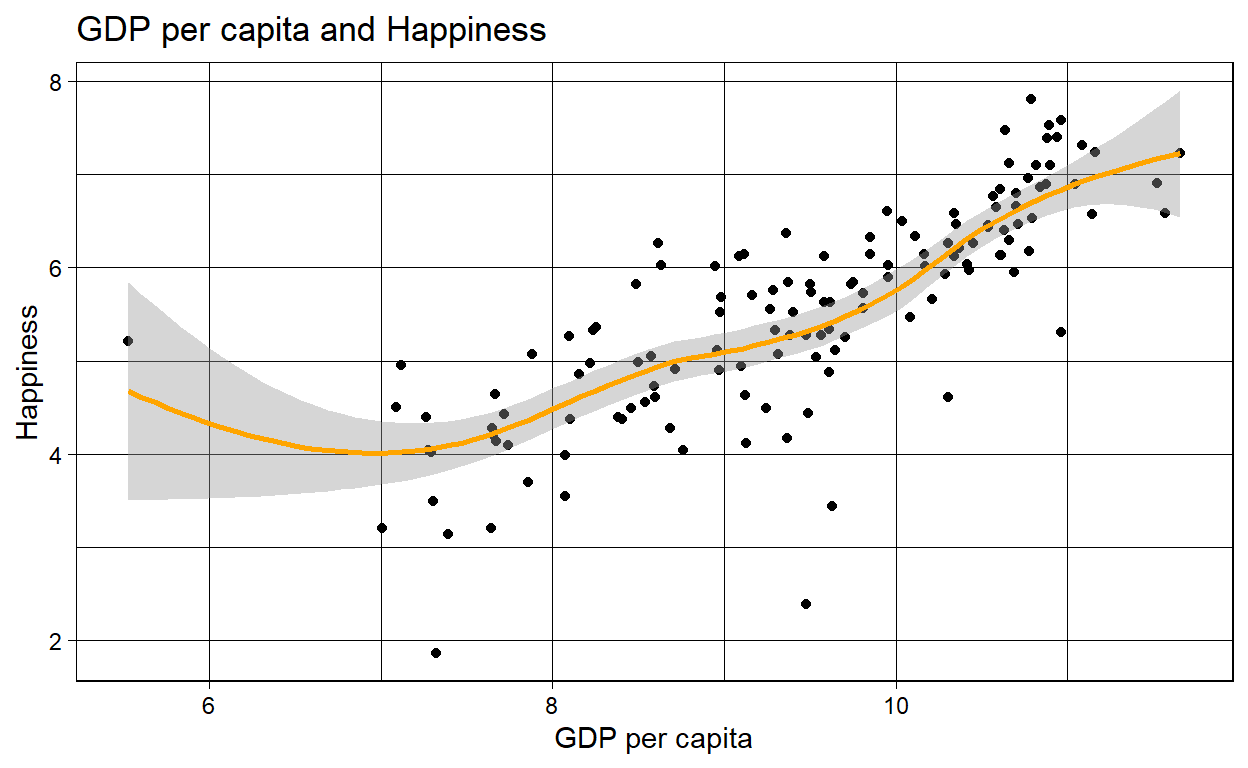
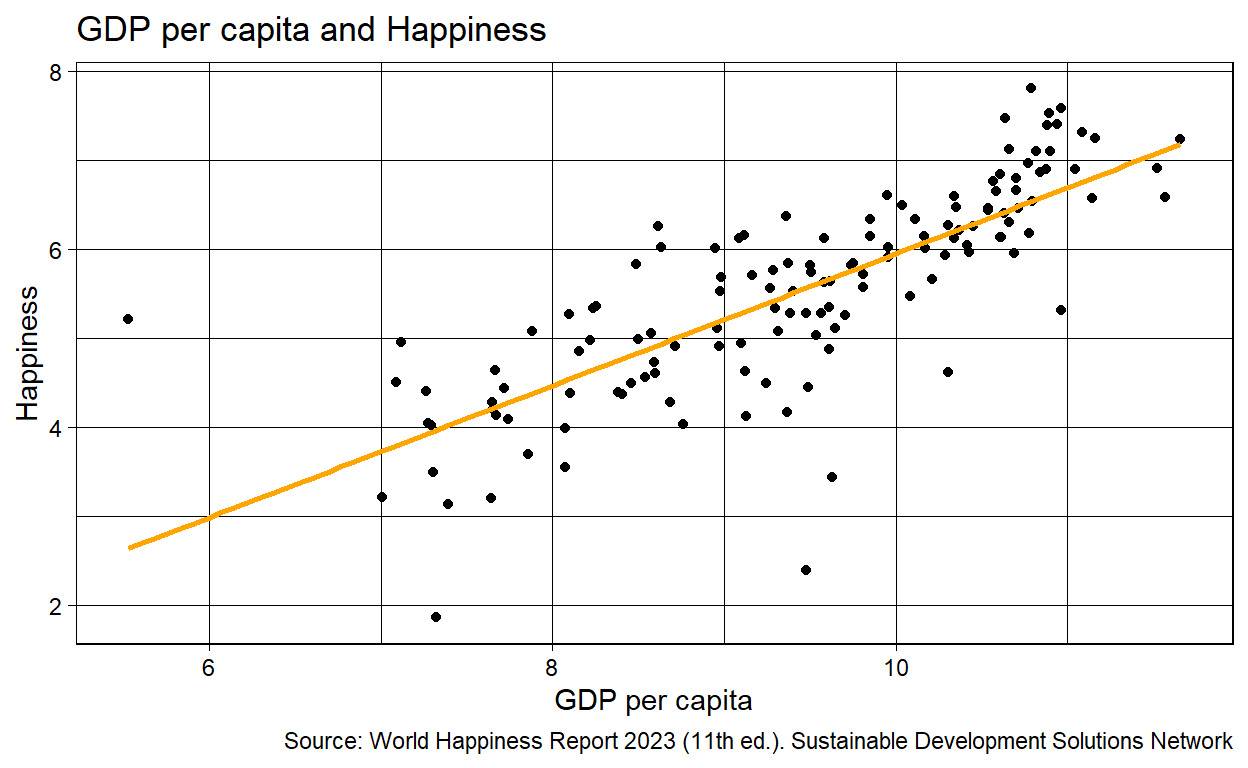
Wrapping up

diff --git a/index.html b/index.html
@@ -1520,13 +1520,13 @@ code span.wa { color: #5e5e5e; font-style: italic; } /* Warning */
 
 <div class="d-article">
 <h2 id="research-question-and-main-hypothesis">Research Question and Main Hypothesis</h2>
-<p>The following project aims to explore the universal strive towards happiness in a world that makes this endeavor seem nearly impossible. What particular factors of one’s life and state significantly impact one’s happiness? In particular, does one’s economic standing play a greater role in one’s happiness compared to more social factors, one’s relationships? This projects hopes to debunk the notion that “money makes you happy.” Thus, I hypothesize that indeed one’s relationships more significantly influence one’s happiness compared to that of one’s economic standing, money.</p>
+<p>The following project aims to explore the universal strive towards happiness in a world that makes this endeavor seem nearly impossible. What particular factors of one’s life and state significantly impact one’s happiness? In particular, does one’s economic standing play a significant role in one’s happiness? What about one’s relationships? This projects hopes to debunk the notion that “money makes you happy.” Thus, I hypothesize that indeed one’s relationships more significantly influence one’s happiness compared to that of one’s economic standing, money.</p>
 <p>Certainly, one cannot control the happiness of another. However, governments still have an obligation to consider the happiness of its citizens. After all, it is governments who are in a position of power to pursue the necessary means to enact such state-wide change. Therefore, through identifying what exactly drives one’s happiness, governments can better formulate initiatives to ensure the achievement of happiness for its citizens, more specifically the accessibility of this universal right. This is to say that the following research question is important as it guides governments on how to address humanity’s greater strive towards happiness and universal right to achieving happiness.</p>
-<h2 id="data-section">Data Section</h2>
+<h2 id="data-section-source-measurement-of-independent-and-dependent-variables-research-design">Data Section: Source, Measurement of Independent and Dependent Variables, Research Design</h2>
 <p>To answer this question of what factor influences one’s happiness the most, this research project will be using data from the World Happiness Report for the year of 2023. This report stems from the Sustainable Development Solutions Network, which is driven by the Gallup World Poll data. More importantly, the following organization similarly aims to explore happiness with the goal of calling upon governments to consider their own roles in the happiness of its citizens. The data of the report was collected through evaluations made by respondents regarding their own perception of their happiness on the “Cantril ladder.” In the context of this source and thus this report, happiness is defined as one’s “life evaluation.” The following scale asked respondents to think of a ladder with 10 representing one’s “best possible life” and 0 representing the worst. They ultimately rated their own lives on that scale. This information was then observed on six variables (social support, healthy life expectancy, freedom, generosity, corruption, and GDP per capita). Therefore, the happiness rankings that are earned by countries are not based on these factors, but rather the individual assessments of respondents on their lives (i.e. their answer to the Cantril ladder evaluation). (<a href="https://worldhappiness.report/about/" class="uri">https://worldhappiness.report/about/</a>)</p>
-<p>The Gallup World Poll data, the main source of the World Happiness Report, is a survey based data collecting tool. According to the Gallup agency, this poll is conducted through a combination of telephone surveying along with in-person interviewing. For countries that have telephone coverage for at least 80% of the population, telephone surveys are leveraged. Additionally, where telephone interviewing is employed, a random-digit-dial is used. In countries that do not have the above telephone coverage, households are randomly selected for in-person interviewing. Therefore, the RESEARCH DESIGN of this data is a randomized experiment. (<a href="https://www.gallup.com/178667/gallup-world-poll-work.aspx" class="uri">https://www.gallup.com/178667/gallup-world-poll-work.aspx</a>)</p>
-<p>The above research question can be simplified to exploring the influence of GDP per capita and one’s relationships (social support) on one’s happiness. Therefore, the main outcome of interest is happiness score, our dependent variable. The independent variables in this case, are a country’s GDP per capita and its score of social support.</p>
-##Dataset Cleaning and Main Outcome of Interest
+<p>The Gallup World Poll data, the main source of the World Happiness Report, is a survey based data collecting tool. According to the Gallup agency, this poll is conducted through a combination of telephone surveying along with in-person interviewing. For countries that have telephone coverage for at least 80% of the population, telephone surveys are leveraged. Additionally, where telephone interviewing is employed, a random-digit-dial is used. In countries that do not have the above telephone coverage, households are randomly selected for in-person interviewing. (<a href="https://www.gallup.com/178667/gallup-world-poll-work.aspx" class="uri">https://www.gallup.com/178667/gallup-world-poll-work.aspx</a>)</p>
+<p>The above research question can be simplified to exploring the influence of GDP per capita (representing income/money) and one’s relationships (social support) on one’s happiness. Therefore, the main outcome of interest is happiness score, our dependent variable. The independent variables in this case, are a country’s GDP per capita and its score of social support. This exploration of the relationship between happiness score and the above independent variables demonstrates that this report uses a correlational research design. Put simply, this report is an investigation of relationships between variables without manipulating or controlling them.</p>
+<h2 id="dataset-cleaning-and-main-outcome-of-interest">Dataset Cleaning and Main Outcome of Interest</h2>
 <div class="layout-chunk" data-layout="l-body">
 <div class="sourceCode">
 <pre class="sourceCode r"><code class="sourceCode r"><span><span class='kw'><a href='https://rdrr.io/r/base/library.html'>library</a></span><span class='op'>(</span><span class='va'><a href='https://tidyverse.tidyverse.org'>tidyverse</a></span><span class='op'>)</span></span>
@@ -3545,39 +3545,42 @@ Afghanistan
 </div>
 <p><img src="index_files/figure-html5/unnamed-chunk-2-1.png" width="624" /></p>
 </div>
-<p>Here lies a distribution of happiness, our main outcome of interest, across the world. One</p>
-<p>##Main Analaysis &amp; Regression Output</p>
+<p>Here lies a distribution of happiness, our main outcome of interest, across the world. The dependent variable of this project is happiness score as we are exploring how GDP per capita and social support influences a country’s reported happiness score. As we can see from this map and the above data set, the following project is missing countries. More specifically, there are only 137 rather than 195 countries. Nevertheless, the following visual illustrates the range of happiness scores across the globe. Depending on the shade of each given country, one is able to determine the happiness score of the country. A lighter shade, closer to a pale yellow signifies a lower happiness score. On the other hand, a darker shade, closer to the deep maroon, signifies a higher happiness score. For instance, from this map it is clear that the United States, Canada, Australia, and Finland have higher level of happiness. Furthermore, countries such as Afghanistan, Sierra Leona, and India are less happy then the previously mentioned countries, their happiness score is lower on the index.</p>
+<h2 id="main-analaysis-regression-output">Main Analaysis &amp; Regression Output</h2>
 <p>To be able to compare the effect of GDP per capita and social support, it is essential that we first start by recognizing the relationship between happiness and both variables (i.e. GDP per capita and social support). Again, our main outcome of interest is a country’s happiness score. Thus, below lies two scatter plots that reveal how GDP per capita and social relationships influence a country’s happiness score, whether this is positive or negative.</p>
 <div class="layout-chunk" data-layout="l-body">
 <div class="sourceCode">
-<pre class="sourceCode r"><code class="sourceCode r"><span><span class='va'>plot1</span> <span class='op'>&lt;-</span> <span class='fu'><a href='https://ggplot2.tidyverse.org/reference/ggplot.html'>ggplot</a></span><span class='op'>(</span>data <span class='op'>=</span> <span class='va'>WHDF2023</span>, </span>
-<span>       mapping <span class='op'>=</span> <span class='fu'><a href='https://ggplot2.tidyverse.org/reference/aes.html'>aes</a></span><span class='op'>(</span>x <span class='op'>=</span> <span class='va'>GDP_per_capita</span>, </span>
-<span>                     y <span class='op'>=</span> <span class='va'>happiness_score</span><span class='op'>)</span><span class='op'>)</span> <span class='op'>+</span> </span>
+<pre class="sourceCode r"><code class="sourceCode r"><span><span class='va'>plot1</span> <span class='op'>&lt;-</span> <span class='fu'><a href='https://ggplot2.tidyverse.org/reference/ggplot.html'>ggplot</a></span><span class='op'>(</span>data <span class='op'>=</span> <span class='va'>WHDF2023</span>, mapping <span class='op'>=</span> <span class='fu'><a href='https://ggplot2.tidyverse.org/reference/aes.html'>aes</a></span><span class='op'>(</span>x <span class='op'>=</span> <span class='va'>GDP_per_capita</span>, y <span class='op'>=</span> <span class='va'>happiness_score</span><span class='op'>)</span><span class='op'>)</span> <span class='op'>+</span> </span>
 <span>        <span class='fu'><a href='https://ggplot2.tidyverse.org/reference/geom_point.html'>geom_point</a></span><span class='op'>(</span><span class='op'>)</span> <span class='op'>+</span></span>
-<span>         <span class='fu'><a href='https://ggplot2.tidyverse.org/reference/geom_smooth.html'>geom_smooth</a></span><span class='op'>(</span>color <span class='op'>=</span> <span class='st'>"orange"</span><span class='op'>)</span> <span class='op'>+</span> </span>
-<span>         <span class='fu'><a href='https://ggplot2.tidyverse.org/reference/labs.html'>labs</a></span><span class='op'>(</span>title <span class='op'>=</span> <span class='st'>"GDP per capita and Happiness"</span>, x <span class='op'>=</span> <span class='st'>"GDP per capita"</span>, y <span class='op'>=</span> <span class='st'>"Happiness"</span><span class='op'>)</span> <span class='op'>+</span> <span class='fu'><a href='https://ggplot2.tidyverse.org/reference/ggtheme.html'>theme_linedraw</a></span><span class='op'>(</span><span class='op'>)</span> </span>
+<span>        <span class='fu'><a href='https://ggplot2.tidyverse.org/reference/geom_smooth.html'>geom_smooth</a></span><span class='op'>(</span>method <span class='op'>=</span> <span class='va'>lm</span>, color <span class='op'>=</span> <span class='st'>"orange"</span>, se <span class='op'>=</span> <span class='cn'>FALSE</span><span class='op'>)</span> <span class='op'>+</span> </span>
+<span>        <span class='fu'><a href='https://ggplot2.tidyverse.org/reference/labs.html'>labs</a></span><span class='op'>(</span>title <span class='op'>=</span> <span class='st'>"GDP per capita and Happiness"</span>, </span>
+<span>             x <span class='op'>=</span> <span class='st'>"GDP per capita"</span>, </span>
+<span>             y <span class='op'>=</span> <span class='st'>"Happiness"</span>, </span>
+<span>             caption <span class='op'>=</span> <span class='st'>"Source: World Happiness Report 2023 (11th ed.). Sustainable Development Solutions Network"</span><span class='op'>)</span> <span class='op'>+</span></span>
+<span>             <span class='fu'><a href='https://ggplot2.tidyverse.org/reference/ggtheme.html'>theme_linedraw</a></span><span class='op'>(</span><span class='op'>)</span> </span>
 <span></span>
 <span><span class='va'>plot1</span></span></code></pre>
 </div>
 <p><img src="index_files/figure-html5/unnamed-chunk-3-1.png" width="624" /></p>
 </div>
-<p>In this visualization we have GDP per capita as the independent variable and happiness score as the dependent variable. With each country represented by a scatter plot point, we can infer a positive relationship between GDP per capita and happiness score. Here, through the geom_smooth function, I have added a smoothed curve that summarized the relationship between these variables. This function uses a loess smoother to estimate the conditional means of the happiness score (y axis variable) as a function of the GDP per capita (x axis variable).</p>
 <div class="layout-chunk" data-layout="l-body">
 <div class="sourceCode">
-<pre class="sourceCode r"><code class="sourceCode r"><span><span class='va'>plot2</span> <span class='op'>&lt;-</span> <span class='fu'><a href='https://ggplot2.tidyverse.org/reference/ggplot.html'>ggplot</a></span><span class='op'>(</span>data <span class='op'>=</span> <span class='va'>WHDF2023</span>, </span>
-<span>       mapping <span class='op'>=</span> <span class='fu'><a href='https://ggplot2.tidyverse.org/reference/aes.html'>aes</a></span><span class='op'>(</span>x <span class='op'>=</span> <span class='va'>social_support</span>, </span>
-<span>                     y <span class='op'>=</span> <span class='va'>happiness_score</span><span class='op'>)</span><span class='op'>)</span> <span class='op'>+</span></span>
+<pre class="sourceCode r"><code class="sourceCode r"><span><span class='va'>plot2</span> <span class='op'>&lt;-</span> </span>
+<span>  <span class='fu'><a href='https://ggplot2.tidyverse.org/reference/ggplot.html'>ggplot</a></span><span class='op'>(</span>data <span class='op'>=</span> <span class='va'>WHDF2023</span>, mapping <span class='op'>=</span> <span class='fu'><a href='https://ggplot2.tidyverse.org/reference/aes.html'>aes</a></span><span class='op'>(</span>x <span class='op'>=</span> <span class='va'>social_support</span>, y <span class='op'>=</span> <span class='va'>happiness_score</span><span class='op'>)</span><span class='op'>)</span> <span class='op'>+</span></span>
 <span>         <span class='fu'><a href='https://ggplot2.tidyverse.org/reference/geom_point.html'>geom_point</a></span><span class='op'>(</span><span class='op'>)</span> <span class='op'>+</span></span>
-<span>         <span class='fu'><a href='https://ggplot2.tidyverse.org/reference/geom_smooth.html'>geom_smooth</a></span><span class='op'>(</span>lm <span class='op'>=</span> <span class='va'>loess</span>, color <span class='op'>=</span> <span class='st'>"orange"</span><span class='op'>)</span> <span class='op'>+</span>  <span class='fu'><a href='https://ggplot2.tidyverse.org/reference/labs.html'>labs</a></span><span class='op'>(</span>title <span class='op'>=</span> <span class='st'>"Social Support and Happiness"</span>, x <span class='op'>=</span> <span class='st'>"Social Support"</span>, y <span class='op'>=</span> <span class='st'>"Happiness"</span><span class='op'>)</span> <span class='op'>+</span> </span>
-<span>  <span class='fu'><a href='https://ggplot2.tidyverse.org/reference/ggtheme.html'>theme_linedraw</a></span><span class='op'>(</span><span class='op'>)</span> </span>
+<span>         <span class='fu'><a href='https://ggplot2.tidyverse.org/reference/geom_smooth.html'>geom_smooth</a></span><span class='op'>(</span>method <span class='op'>=</span> <span class='va'>lm</span>, color <span class='op'>=</span> <span class='st'>"orange"</span>, se <span class='op'>=</span> <span class='cn'>FALSE</span><span class='op'>)</span> <span class='op'>+</span> </span>
+<span>         <span class='fu'><a href='https://ggplot2.tidyverse.org/reference/labs.html'>labs</a></span><span class='op'>(</span>title <span class='op'>=</span> <span class='st'>"Social Support and Happiness"</span>, </span>
+<span>              x <span class='op'>=</span> <span class='st'>"Social Support"</span>, </span>
+<span>              y <span class='op'>=</span> <span class='st'>"Happiness"</span>, </span>
+<span>              caption <span class='op'>=</span> <span class='st'>"Source: World Happiness Report 2023 (11th ed.). Sustainable Development Solutions Network"</span><span class='op'>)</span> <span class='op'>+</span> </span>
+<span>              <span class='fu'><a href='https://ggplot2.tidyverse.org/reference/ggtheme.html'>theme_linedraw</a></span><span class='op'>(</span><span class='op'>)</span> </span>
 <span></span>
 <span><span class='va'>plot2</span></span></code></pre>
 </div>
 <p><img src="index_files/figure-html5/unnamed-chunk-4-1.png" width="624" /></p>
 </div>
-<p>Use findings to reject the hypothesis that a change in GDP and social support do NOT change the score.</p>
-<p>We reject the null hypothesis if p is greater than alpha value, which will be .05.</p>
-<p>Below is a regression model of the data pertaining to GDP per capita and social support. Here, we are able to observe exactly how happiness is impacted depending on changes of the following variables.</p>
+<p>Both of these scatter plots illustrate the single-variate regressions of GDP per capita and social support on happiness score. In the first visualization, we have GDP per capita as the independent variable and happiness score as the dependent variable. With each country represented by a scatter plot point, we can infer a positive relationship between GDP per capita and happiness score. Here, through the geom_smooth function and the argument “method = lm,” I have added an orange regression line that summarized the relationship between these variables. This regression line highlights how as GDP per capita increases, so does the happiness score of the country. In the second visualization, we have social support as the independent variable and happiness score as the dependent variable. Again, we observe a positive relationship, this time between social support and happiness score. As social support increases, so does happiness score.</p>
+<p>Although the relationship between happiness score and GDP per capita presents a very similar positive relationship as the relationship between happiness score and socials support, these linear regressions are certainly not the same. To properly compare the two relationships, we must leverage a more specific regression model. Below lies a fitted regression model for the data pertaining to GDP per capita and social support. Now, we are able to observe exactly how happiness is impacted depending on changes of the following variables through performing linear regressions of GDP per capita and social support on happiness score changes of countries.</p>
 <div class="layout-chunk" data-layout="l-body">
 <div class="sourceCode">
 <pre class="sourceCode r"><code class="sourceCode r"><span><span class='kw'><a href='https://rdrr.io/r/base/library.html'>library</a></span><span class='op'>(</span><span class='va'><a href='https://broom.tidymodels.org/'>broom</a></span><span class='op'>)</span></span>
@@ -3614,8 +3617,6 @@ F-statistic: 210.7 on 2 and 134 DF,  p-value: &lt; 2.2e-16</code></pre>
 1 (Intercept)      -1.72     0.383      -4.49 1.51e- 5
 2 GDP_per_capita    0.349    0.0594      5.88 3.05e- 8
 3 social_support    4.95     0.555       8.93 2.90e-15</code></pre>
-</div>
-<div class="layout-chunk" data-layout="l-body">
 <div class="sourceCode">
 <pre class="sourceCode r"><code class="sourceCode r"><span><span class='va'>tidy_fit_regression</span> <span class='op'>&lt;-</span> <span class='va'>tidy_fit</span> <span class='op'>|&gt;</span> <span class='fu'><a href='https://rdrr.io/pkg/kableExtra/man/kbl.html'>kbl</a></span><span class='op'>(</span>caption <span class='op'>=</span> <span class='st'>"Main Regression"</span>, col.names <span class='op'>=</span> <span class='fu'><a href='https://rdrr.io/r/base/c.html'>c</a></span><span class='op'>(</span><span class='st'>"Term"</span>, <span class='st'>"Estimate"</span>, <span class='st'>"Standard Error"</span>, <span class='st'>"Statistic"</span>, <span class='st'>"P Value"</span><span class='op'>)</span><span class='op'>)</span> <span class='op'>|&gt;</span></span>
 <span>  <span class='fu'><a href='https://rdrr.io/pkg/kableExtra/man/kable_classic.html'>kable_classic</a></span><span class='op'>(</span>html_font <span class='op'>=</span> <span class='st'>"Cambria"</span><span class='op'>)</span></span>
@@ -3623,7 +3624,7 @@ F-statistic: 210.7 on 2 and 134 DF,  p-value: &lt; 2.2e-16</code></pre>
 </div>
 <table class=" lightable-classic" style="font-family: Cambria; margin-left: auto; margin-right: auto;">
 <caption>
-<span id="tab:unnamed-chunk-6">Table 2: </span>Main Regression
+<span id="tab:unnamed-chunk-5">Table 2: </span>Main Regression
 </caption>
 <thead>
 <tr>
@@ -3706,11 +3707,11 @@ social_support
 <span><span class='st'>"GDP_per_capita"</span> <span class='op'>=</span> <span class='st'>"GDP per capita"</span>,</span>
 <span><span class='st'>"social_support"</span> <span class='op'>=</span> <span class='st'>"Social Support"</span><span class='op'>)</span></span>
 <span></span>
-<span><span class='fu'>modelsummary</span><span class='fu'>::</span><span class='fu'><a href='https://rdrr.io/pkg/modelsummary/man/modelsummary.html'>modelsummary</a></span><span class='op'>(</span><span class='va'>fit</span>, statistic <span class='op'>=</span> <span class='st'>"p.value"</span>,</span>
-<span>                          gof_map <span class='op'>=</span> <span class='fu'><a href='https://rdrr.io/r/base/c.html'>c</a></span><span class='op'>(</span><span class='st'>"nobs"</span>, </span>
-<span>                          <span class='st'>"r.squared"</span>,<span class='st'>"adj.r.squared"</span><span class='op'>)</span>, </span>
-<span>                          coef_map <span class='op'>=</span> <span class='va'>var_labels</span><span class='op'>)</span> <span class='op'>|&gt;</span> </span>
-<span>  <span class='fu'><a href='https://rdrr.io/pkg/kableExtra/man/kable_classic.html'>kable_classic</a></span><span class='op'>(</span>full_width <span class='op'>=</span> <span class='cn'>F</span>, html_font <span class='op'>=</span> <span class='st'>"Cambria"</span><span class='op'>)</span></span></code></pre>
+<span><span class='fu'>modelsummary</span><span class='fu'>::</span><span class='fu'><a href='https://rdrr.io/pkg/modelsummary/man/modelsummary.html'>modelsummary</a></span><span class='op'>(</span><span class='va'>fit</span>, </span>
+<span>                           statistic <span class='op'>=</span> <span class='fu'><a href='https://rdrr.io/r/base/c.html'>c</a></span><span class='op'>(</span><span class='st'>"s.e. = {std.error}"</span>,<span class='st'>"p = {p.value}"</span><span class='op'>)</span>,</span>
+<span>                           gof_map <span class='op'>=</span> <span class='fu'><a href='https://rdrr.io/r/base/c.html'>c</a></span><span class='op'>(</span><span class='st'>"nobs"</span>, <span class='st'>"r.squared"</span>,<span class='st'>"adj.r.squared"</span><span class='op'>)</span>, </span>
+<span>                           coef_map <span class='op'>=</span> <span class='va'>var_labels</span><span class='op'>)</span> <span class='op'>|&gt;</span> </span>
+<span>                           <span class='fu'><a href='https://rdrr.io/pkg/kableExtra/man/kable_classic.html'>kable_classic</a></span><span class='op'>(</span>full_width <span class='op'>=</span> <span class='cn'>F</span>, html_font <span class='op'>=</span> <span class='st'>"Cambria"</span><span class='op'>)</span></span></code></pre>
 </div>
 <table class="table lightable-classic" style="width: auto !important; margin-left: auto; margin-right: auto; font-family: Cambria; width: auto !important; margin-left: auto; margin-right: auto;">
 <thead>
@@ -3735,7 +3736,14 @@ Intercept
 <td style="text-align:left;">
 </td>
 <td style="text-align:center;">
-(&lt;0.001)
+s.e. = 0.383
+</td>
+</tr>
+<tr>
+<td style="text-align:left;">
+</td>
+<td style="text-align:center;">
+p = &lt;0.001
 </td>
 </tr>
 <tr>
@@ -3750,7 +3758,14 @@ GDP per capita
 <td style="text-align:left;">
 </td>
 <td style="text-align:center;">
-(&lt;0.001)
+s.e. = 0.059
+</td>
+</tr>
+<tr>
+<td style="text-align:left;">
+</td>
+<td style="text-align:center;">
+p = &lt;0.001
 </td>
 </tr>
 <tr>
@@ -3762,10 +3777,17 @@ Social Support
 </td>
 </tr>
 <tr>
+<td style="text-align:left;">
+</td>
+<td style="text-align:center;">
+s.e. = 0.555
+</td>
+</tr>
+<tr>
 <td style="text-align:left;box-shadow: 0px 1.5px">
 </td>
 <td style="text-align:center;box-shadow: 0px 1.5px">
-(&lt;0.001)
+p = &lt;0.001
 </td>
 </tr>
 <tr>
@@ -3813,6 +3835,9 @@ R2 Adj.
 </div>
 <pre><code>[1] 2.904365e-15</code></pre>
 </div>
+<p>With the above model, we can observe how happiness changes based on the specific variables that we want to observe for the study, i.e. GDP per capita and social support. Firstly, the intercept points to the mean value of the response variable, happiness score, when the independent variables (GDP per capita and social support are) held equal to zero. This is to say that the happiness score would be negative when GDP per capita and social support are zero. The standard error for the GDP per capita input is 0.059. Because standard error estimates how much variation we can expect to see in our estimated coefficient across repeated samples, we can infer from this standard error is therefore communicating that we can expect that the average estimated coefficient is around 0.059 away from its true value. Similarly, with the coefficient of social support, we can conclude that we can expect that the average estimated coefficient is around 0.555 away from its true value.</p>
+<p>The following estimated coefficients within this multiple regression represent the average effect of a one-unit change in the independent variables on the dependent variable (holding other independent variables constant) The estimated coefficient on GDP per capita is 0.349 and the estimated coefficient on social support is 4.95. This means that a country with a higher GDP results in happiness score increase, a change, by 0.349, while a country with a higher social support score results in an increase of 4.953, holding all else equal. Therefore social support had a greater effect with compared to GDP per capita. Moreover, the following coefficients in this regression have extremely small p-values. Therefore, the estimated coefficient of GDP per capita and social support are in fact statistically significant at the 0.05 level. These estimated coefficients are statistically significant at the 0.05 level because of their p-values being less than 0.05. The p-value is the probability of observing data as OR more extreme as our data if the null hypothesis is true. A smaller p-value implies stronger evidence AGAINST the null, not necessarily against the probability that the null is true. With a test level of alpha being 0.05 (the rejection region) and the p-value being LESS than 0.05 (the test level/the threshold for the test), we can deem these estimated coefficients as statistically significant. we CAN reject the null hypothesis of no effect. The null hypothesis of this experiment would be that a change in GDP per capita and social support score does not effect the overall happiness score of a country. From this model, we can confirm that a greater GDP per capita and social support score is associated with an increase in the happiness score of a country, conditional on the covariets. But this certainly does not mean that we can confidently claim that each coefficient represents a casual effect. I say this because the following regression failed to include four other variables that were used to measure happiness (i.e. health, freedom, generosity, and corruption). This means that the correlation that we observe here may be due to one of the other variables not present in the regression, particularly another variable that drives the happiness score of the study. With this reality in mind, I would be wary to interpret the following coefficients of interests causally. To be able to truly estimate casual effects with this multiple regression, we would need to be confident in our independent variables (GDP per capita and social support) are not impacted by other factors outside of the study. Only through this could we promise that the correlation between happiness and GDP per capita/social support is not confounded by other causes. Therefore, the causal assumption of a greater GDP per capita and social support score causing an increase in happiness CANNOT be fully satisfied. One possible confounder, another variable in the data/outside the data that might be related to treatment/outcome, includes the varying definition of wealth. Certainly, a country may have a high GDP AND a high happiness score. Yet, both of these facts were driven by a higher level of education across the country. Thus, we cannot conidently state that a high GDP causes a high happiness score.</p>
+<h2 id="conclusion">Conclusion</h2>
 <div class="sourceCode" id="cb8"><pre class="sourceCode r distill-force-highlighting-css"><code class="sourceCode r"></code></pre></div>
 <!--radix_placeholder_article_footer-->
 <!--/radix_placeholder_article_footer-->
